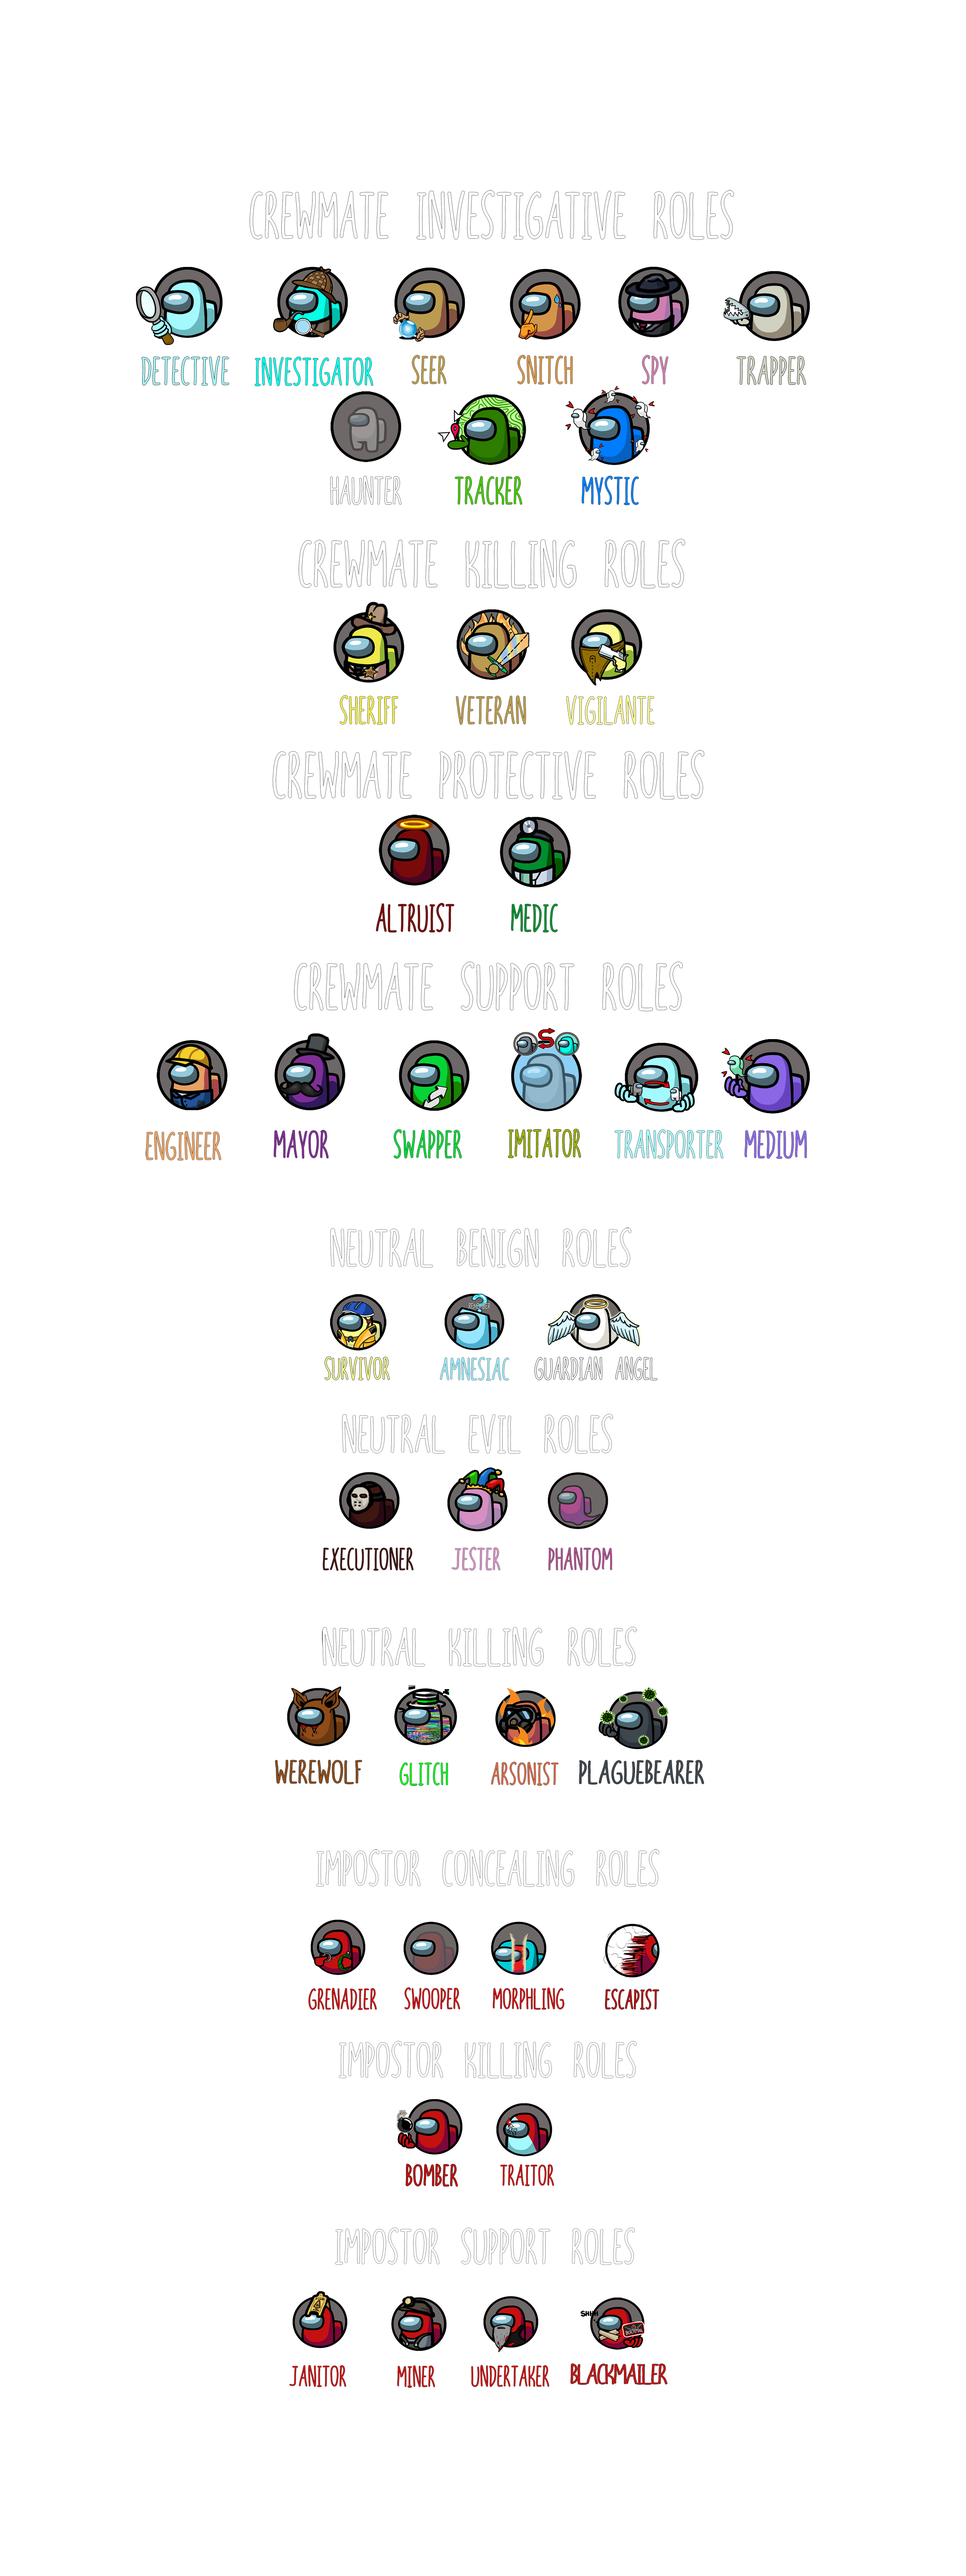
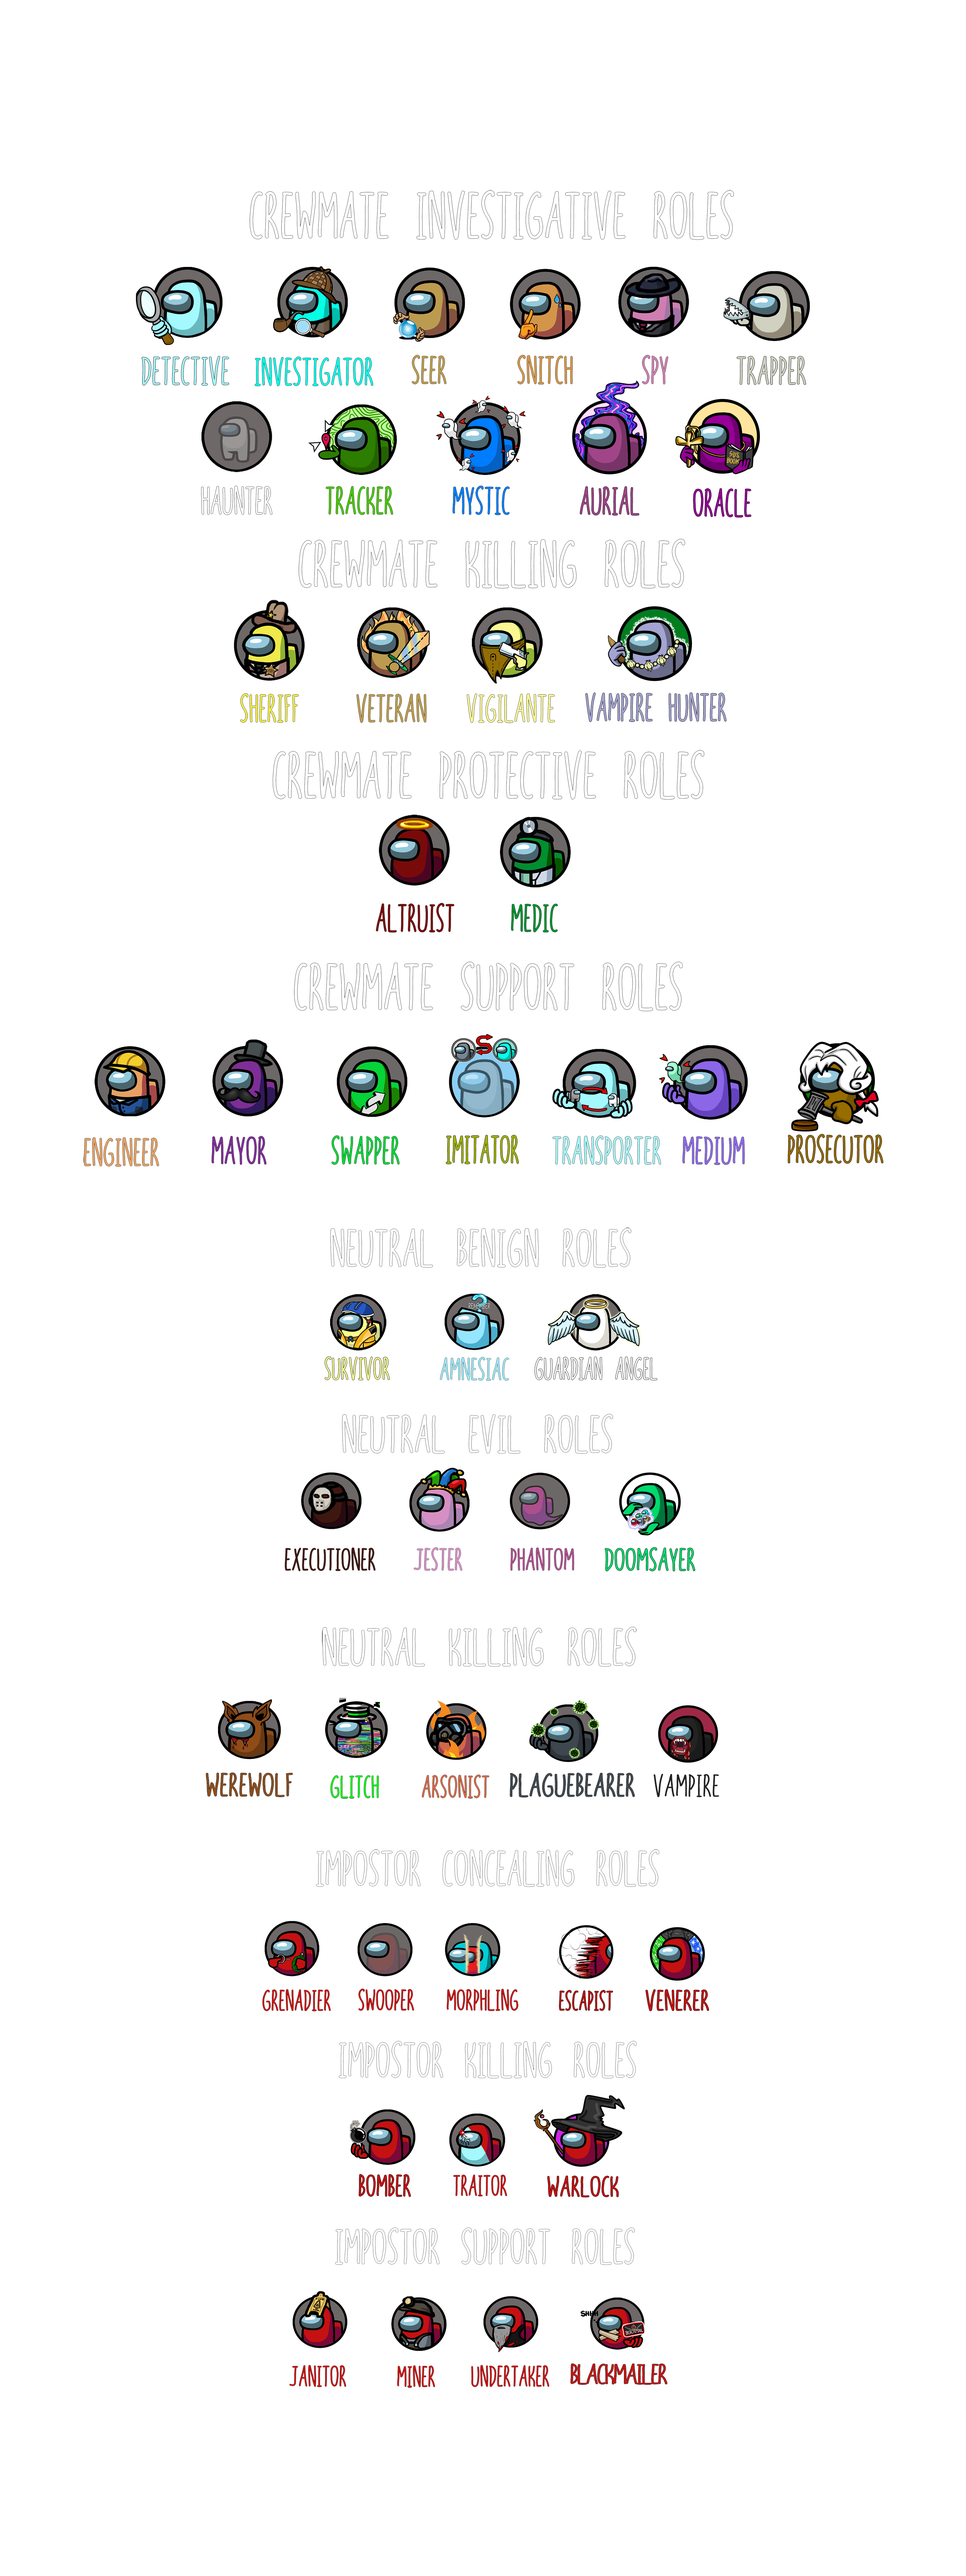
Role Image & Fixes

diff --git a/source/Patches/Roles/Vampire.cs b/source/Patches/Roles/Vampire.cs
@@ -51,17 +51,8 @@ namespace TownOfUs.Roles
                 var vampsAlives = PlayerControl.AllPlayerControls.ToArray()
                     .Where(x => !x.Data.IsDead && !x.Data.Disconnected && x.Is(RoleEnum.Vampire)).ToList();
                 if (vampsAlives.Count == 1) return false;
-                var alives = PlayerControl.AllPlayerControls.ToArray()
-                    .Where(x => !x.Data.IsDead && !x.Data.Disconnected).ToList();
-                var killersAlive = PlayerControl.AllPlayerControls.ToArray()
-                    .Where(x => !x.Data.IsDead && !x.Data.Disconnected && !x.Is(RoleEnum.Vampire) && (x.Is(Faction.Impostors) || x.Is(Faction.NeutralKilling))).ToList();
-                if (killersAlive.Count > 0) return false;
-                if (vampsAlives.Count == 2 && killersAlive.Count == 0 && alives.Count <= 4)
-                {
-                    VampWin();
-                    Utils.EndGame();
-                    return false;
-                }
+                VampWin();
+                Utils.EndGame();
                 return false;
             }
             else
@@ -74,7 +65,7 @@ namespace TownOfUs.Roles
                 var killersAlive = PlayerControl.AllPlayerControls.ToArray()
                     .Where(x => !x.Data.IsDead && !x.Data.Disconnected && !x.Is(RoleEnum.Vampire) && (x.Is(Faction.Impostors) || x.Is(Faction.NeutralKilling))).ToList();
                 if (killersAlive.Count > 0) return false;
-                if (vampsAlives.Count == 3 && killersAlive.Count == 0 && alives.Count <= 6)
+                if (alives.Count <= 6)
                 {
                     VampWin();
                     Utils.EndGame();

diff --git a/source/Patches/Utils.cs b/source/Patches/Utils.cs
@@ -1142,18 +1142,19 @@ namespace TownOfUs
             {
                 var vh = Role.GetRole<VampireHunter>(PlayerControl.LocalPlayer);
                 vh.LastStaked = DateTime.UtcNow;
-                if (!vh.AddedStakes)
-                {
-                    vh.UsesLeft = CustomGameOptions.MaxFailedStakesPerGame;
-                    vh.AddedStakes = true;
-                }
             }
             foreach (var vh in Role.GetRoles(RoleEnum.VampireHunter))
             {
+                var vhRole = (VampireHunter)vh;
+                if (!vhRole.AddedStakes)
+                {
+                    vhRole.UsesLeft = CustomGameOptions.MaxFailedStakesPerGame;
+                    vhRole.AddedStakes = true;
+                }
                 var vamps = PlayerControl.AllPlayerControls.ToArray().Where(x => x.Is(RoleEnum.Vampire) && !x.Data.IsDead && !x.Data.Disconnected).ToList();
                 if (vamps.Count == 0 && vh.Player != StartImitate.ImitatingPlayer && !vh.Player.Data.IsDead && !vh.Player.Data.Disconnected)
                 {
-                    var vhPlayer = ((VampireHunter)vh).Player;
+                    var vhPlayer = vhRole.Player;
 
                     if (CustomGameOptions.BecomeOnVampDeaths == BecomeEnum.Sheriff)
                     {
